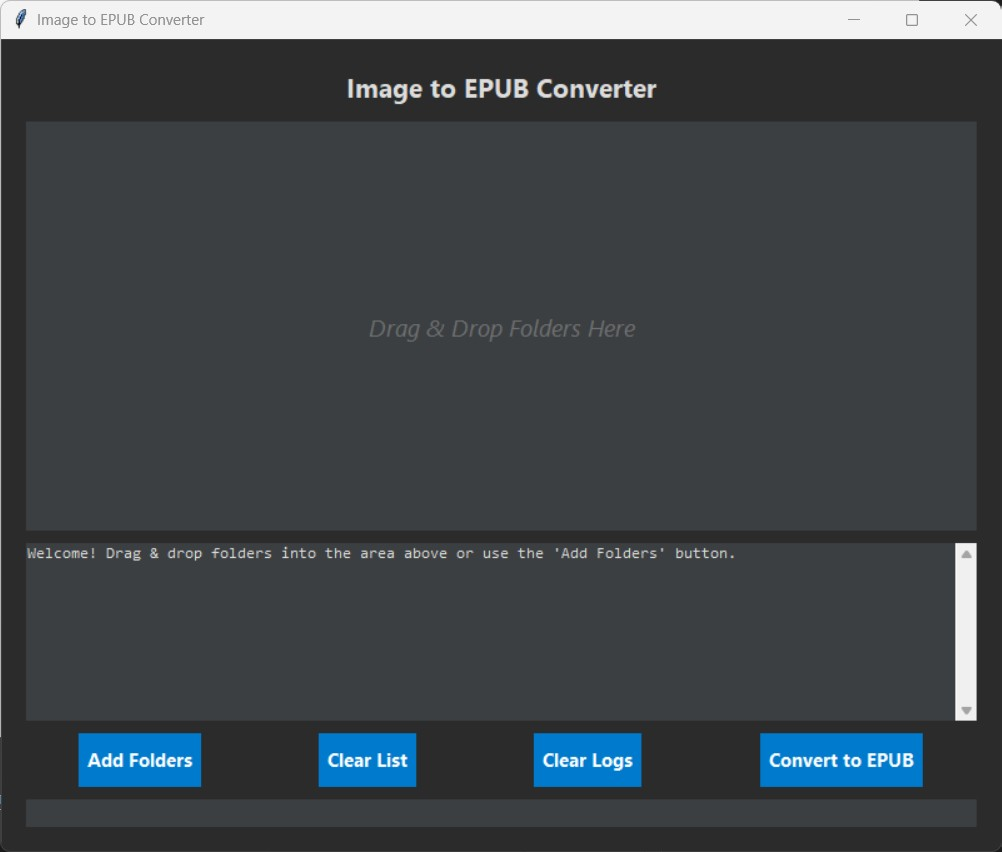
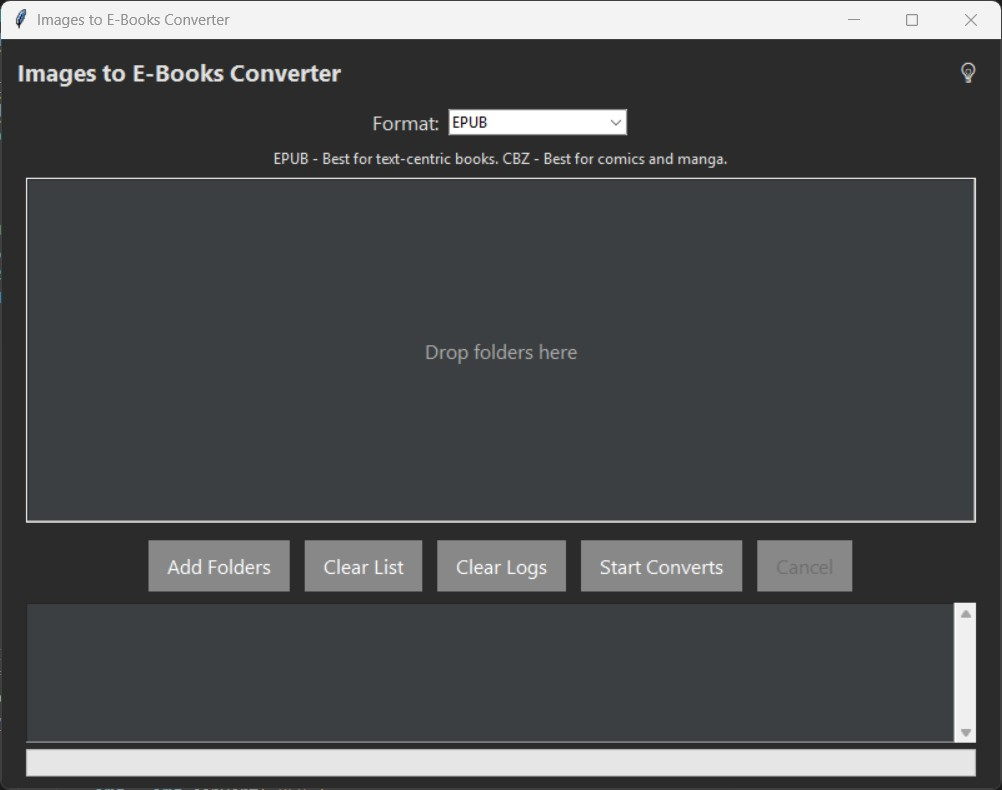
feat: UI updates

diff --git a/image-to-epub.py b/image-to-epub.py
@@ -13,13 +13,15 @@ class Style:
     THEMES = {
         'light': {
             'BG': '#ffffff', 'FG': '#000000', 'LIST_BG': '#f0f0f0', 'PLACEHOLDER_FG': '#777777',
-            'BTN_BG': '#007acc', 'BTN_FG': '#ffffff', 'BTN_ACTIVE': '#005f9e',
-            'FONT': ("Segoe UI", 10), 'FONT_TITLE': ("Segoe UI", 14, "bold"), 'FONT_MONO': ("Consolas", 9)
+            'BTN_BG': '#88B6F2', 'BTN_FG': '#ffffff', 'BTN_ACTIVE': '#9BC1F2',
+            'BTN_DISABLED_FG': '#aaaaaa',
+            'FONT': ("Segoe UI", 12), 'FONT_TITLE': ("Segoe UI", 14, "bold"), 'FONT_MONO': ("Consolas", 11)
         },
         'dark': {
             'BG': '#2b2b2b', 'FG': '#e0e0e0', 'LIST_BG': '#3c3f41', 'PLACEHOLDER_FG': '#aaaaaa',
             'BTN_BG': '#888888', 'BTN_FG': '#ffffff', 'BTN_ACTIVE': '#666666',
-            'FONT': ("Segoe UI", 10), 'FONT_TITLE': ("Segoe UI", 14, "bold"), 'FONT_MONO': ("Consolas", 9)
+            'BTN_DISABLED_FG': '#aaaaaa',
+            'FONT': ("Segoe UI", 12), 'FONT_TITLE': ("Segoe UI", 14, "bold"), 'FONT_MONO': ("Consolas", 11)
         }
     }
 
@@ -71,8 +73,7 @@ def create_epub(folder, out_dir, logger, progress, stop_flag):
 
     out_path = os.path.join(out_dir, f"{name}.epub")
     epub.write_epub(out_path, book)
-    logger(f"\u2713 Saved: {out_path}")
-    logger("Done.")
+    logger(f"✓ Saved: {out_path}")
 
 # --- CBZ Creation ---
 def create_cbz(folder, out_dir, logger, progress, stop_flag):
@@ -90,8 +91,7 @@ def create_cbz(folder, out_dir, logger, progress, stop_flag):
             img_name = f'{idx:03d}.jpg'
             cbz.writestr(img_name, data)
             progress(1)
-    logger(f"\u2713 Saved: {out_path}")
-    logger("Done.")
+    logger(f"✓ Saved: {out_path}")
 
 # --- Main App ---
 class App:
@@ -114,7 +114,7 @@ class App:
 
         tk.Label(top_frame, text="Images to E-Books Converter", font=self.style['FONT_TITLE'], bg=self.style['BG'], fg=self.style['FG']).pack(side='left')
 
-        self.theme_btn = tk.Button(top_frame, text="\ud83d\udca1" if self.theme == 'dark' else "\ud83c\udf19", command=self.toggle_theme, bg=self.style['BG'], fg=self.style['FG'], bd=0, font=("Segoe UI", 12))
+        self.theme_btn = tk.Button(top_frame, text="🌙" if self.theme == 'light' else "💡", command=self.toggle_theme, bg=self.style['BG'], fg=self.style['FG'], bd=0, font=("Segoe UI", 12))
         self.theme_btn.pack(side='right')
 
         fmt_frame = tk.Frame(self.root, bg=self.style['BG'])
@@ -202,7 +202,7 @@ class App:
         self.logs.insert(END, msg + "\n")
         self.logs.see(END)
         self.logs.config(state="disabled")
-        if msg == "Done.":
+        if msg in ["Done.", "Cancelled."]:
             self.progress["value"] = 0
             self.btn_convert.config(text="Start Converts")
 
@@ -220,7 +220,7 @@ class App:
         self.progress["value"] = 0
         self.progress["maximum"] = sum(len([f for f in os.listdir(folder) if f.lower().endswith(('jpg','jpeg','png','gif','bmp','webp'))]) for folder in folders)
 
-        self.btn_convert.config(state="disabled", text="Converting...")
+        self.btn_convert.config(state="disabled", text="Converting...", disabledforeground=self.style['BTN_DISABLED_FG'])
         self.btn_cancel.config(state="normal")
         self.stop_flag = False
 
@@ -236,11 +236,7 @@ class App:
             else:
                 create_cbz(folder, out_dir, self.log, self.update_progress, lambda: self.stop_flag)
 
-        if not self.stop_flag:
-            self.log("Done.")
-        else:
-            self.log("Cancelled.")
-
+        self.log("Done." if not self.stop_flag else "Cancelled.")
         self.btn_convert.config(state="normal", text="Start Converts")
         self.btn_cancel.config(state="disabled")
 
